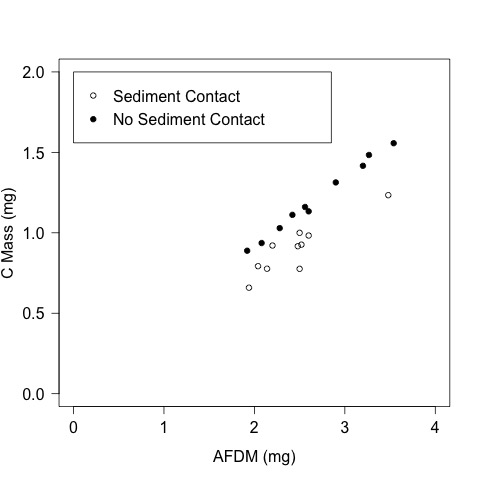
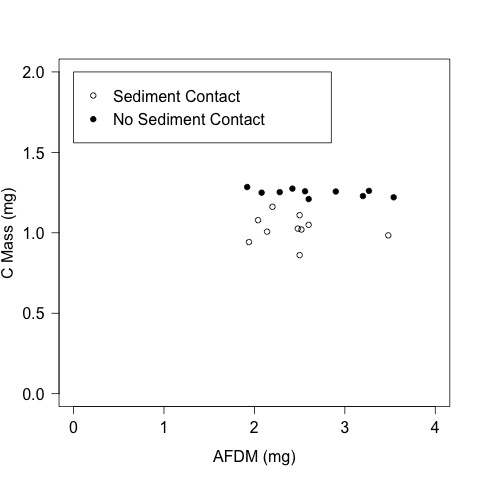
analyzed C mass using the values from the assay rather than those estimated using the percent C

diff --git a/lab_notebook/analysis/mass_loss_analysis.md b/lab_notebook/analysis/mass_loss_analysis.md
@@ -7,6 +7,8 @@
 * Modified:
     * 30 Jan 2018 - KF - summarized the leaf disc mass
     * 2 Feb 2018 - KF - consolodated all of the mass loss analysis here - including AFDM, C and N
+    * 15 Feb 2018 - KF - added summary data for initial OM mass
+    * 15 Feb 2018 - KF - corrected calculations of C mass and N mass based on the actual values from the data, rather than calculated from % C and N
 
 ### Description
 
@@ -25,17 +27,18 @@ Details on the experimental set-up and execution can be found: [https://github.c
 
 ### Determine Average inital leaf mass
 
-The initial leaf mass samples consisted of 10 leaves
+The initial leaf mass came from 9 replicate samples of 10 leaf discs
 
     init.leaf.mass <- leaf.initial$om.mass[leaf.initial$sample == "leaf"]
     sing.init.leaf.mass <- init.leaf.mass / leaf.initial$leaf.num[leaf.initial$sample == "leaf"]
     mean.init.mass <- mean(sing.init.leaf.mass)
-
+    summary(sing.init.leaf.mass * 1000) # converted to mg
+    sd(sing.init.leaf.mass * 1000) # converted to mg
 ~~~~
-# mean mass of a single leaf prior to the beginning the exp (g)
+# summary of AFDM of a single leaf prior to the beginning the exp (mg)
   
-> mean.init.mass
-[1] 0.003541111
+Min. 1st Qu.  Median    Mean 3rd Qu.    Max.     SD 
+  2.850   3.330   3.550   3.541   3.680   4.220  0.4188808
 
 ~~~~
 
@@ -206,34 +209,30 @@ sample estimates:
 0.0002366667 
 ~~~~
 
-### Determine the C mass of the leaves
+### Add Position to the CN data
  
-
-The C mass of the leaf discs at the end of the experiment is estimated by the % C of the leaves after to incubation and the mass of the leaves after incubation
-
 To complete this calculation, I need a treatment level variable for the cn data.frame
 
      cn.position <- c(rep("top", 10), rep("sed", 10))
 
-I now calculate mass of C for each treatment level:
+Each sample for CN contained 3 leaf discs so I now calculate mass of C for a single leaf based on the number of leaf discs in the samples.  
 
-    disc_C_mass_final_TOP <- leaf.final$AFDM[leaf.final$Position == "Top"] * ((cn$percC[cn.position == "top"]) / 100) # convert to proportion
-    disc_C_mass_final_SED <- leaf.final$AFDM[leaf.final$Position == "Sed"] * ((cn$percC[cn.position == "sed"]) / 100)
-    disc_C_mass_final <- c(disc_C_mass_final_TOP, disc_C_mass_final_SED) * 1000 # convert to mg
+    massC_single_disc <- cn$massC / 3
 
-    tapply(disc_C_mass_final, leaf.final$Position, summary) 
-    tapply(disc_C_mass_final, leaf.final$Position, sd)
+    tapply(massC_single_disc, cn.position, summary) 
+    tapply(massC_single_disc, cn.position, sd)
 
 ~~~~
 # Mass of C in each leaf disc after incubation (mg)
  
-$Sed
+$sed
    Min. 1st Qu.  Median    Mean 3rd Qu.    Max. SD 
- 0.6588  0.7806  0.9189  0.8985  0.9689  1.2340 0.1598875 
+ 0.8615  0.9899  1.0230  1.0240  1.0710  1.1620 0.08492448 
 
-$Top
+$top
    Min. 1st Qu.  Median    Mean 3rd Qu.    Max. SD
- 0.8886  1.0500  1.1470  1.2030  1.3910  1.5570 0.2301806 
+  1.210   1.234   1.255   1.250   1.260   1.284 0.02350887 
+
 
 ~~~~
  
@@ -278,7 +277,7 @@ by converting the mean percent C into a proportion
  
 #### Change in C Mass During Incubation
  
-    delta_C_mass <- mean(disc_C_mass_init) - disc_C_mass_final
+    delta_C_mass <- mean(disc_C_mass_init) - massC_single_disc
 
     tapply(delta_C_mass, leaf.final$Position, summary)
     tapply(delta_C_mass, leaf.final$Position, sd)
@@ -287,12 +286,12 @@ by converting the mean percent C into a proportion
 # Change in the mass of C in a leaf disc (mg)
  
 $Sed
-   Min. 1st Qu.  Median    Mean 3rd Qu.    Max.  SD
- 0.3643  0.6294  0.6794  0.6998  0.8176  0.9395  0.1598875 
+   Min. 1st Qu.  Median    Mean 3rd Qu.    Max.  SD 
+ 0.4365  0.5271  0.5752  0.5742  0.6084  0.7368  0.08492448 
 
 $Top
-   Min. 1st Qu.  Median    Mean 3rd Qu.    Max.  SD
-0.04139 0.20780 0.45140 0.39530 0.54850 0.70970  0.2301806 
+   Min. 1st Qu.  Median    Mean 3rd Qu.    Max. SD
+ 0.3139  0.3384  0.3436  0.3488  0.3647  0.3885 0.02350887 
 
 ~~~~~
  
@@ -305,13 +304,14 @@ $Top
 Welch Two Sample t-test
 
 data:  delta_C_mass by leaf.final$Position
-t = 3.4351, df = 16.045, p-value = 0.003387
+t = 8.0902, df = 10.371, p-value = 8.509e-06
 alternative hypothesis: true difference in means is not equal to 0
 95 percent confidence interval:
- 0.1166032 0.4922788
+ 0.1636497 0.2872260
 sample estimates:
 mean in group Sed mean in group Top 
-        0.6997685         0.3953275 
+        0.5741936         0.3487558
+
 ~~~~
 
  
@@ -327,9 +327,12 @@ mean in group Sed mean in group Top
 
 Figure: Change in final leaf C mass
 
+Create an AFDM value in mg
+    AFDM.mg <- leaf.final$AFDM * 1000
+    
     par(las = 1)
-    plot((leaf.final$AFDM[leaf.final$Position == "Sed"] * 1000), (disc_C_mass_final_SED * 1000) , ylim = c(0, 2), xlim = c(0, 4), ylab = "C Mass (mg)", xlab = "AFDM (mg)", pch = 1)
-    points((leaf.final$AFDM[leaf.final$Position == "Top"] * 1000), (disc_C_mass_final_TOP * 1000), pch = 19)
+    plot(massC_single_disc ~ AFDM.mg , data = leaf.final, subset = Position == "Sed", ylim = c(0, 2), xlim = c(0, 4), ylab = "C Mass (mg)", xlab = "AFDM (mg)", pch = 1)
+    points(massC_single_disc ~ AFDM.mg , data = leaf.final, subset = Position == "Top", pch = 19)
     legend(0, 2, c("Sediment Contact", "No Sediment Contact"), pch = c(1, 19))
     dev.copy(jpeg, "./output/plots/C_mass_by_AFDM.jpg")
     dev.off()
